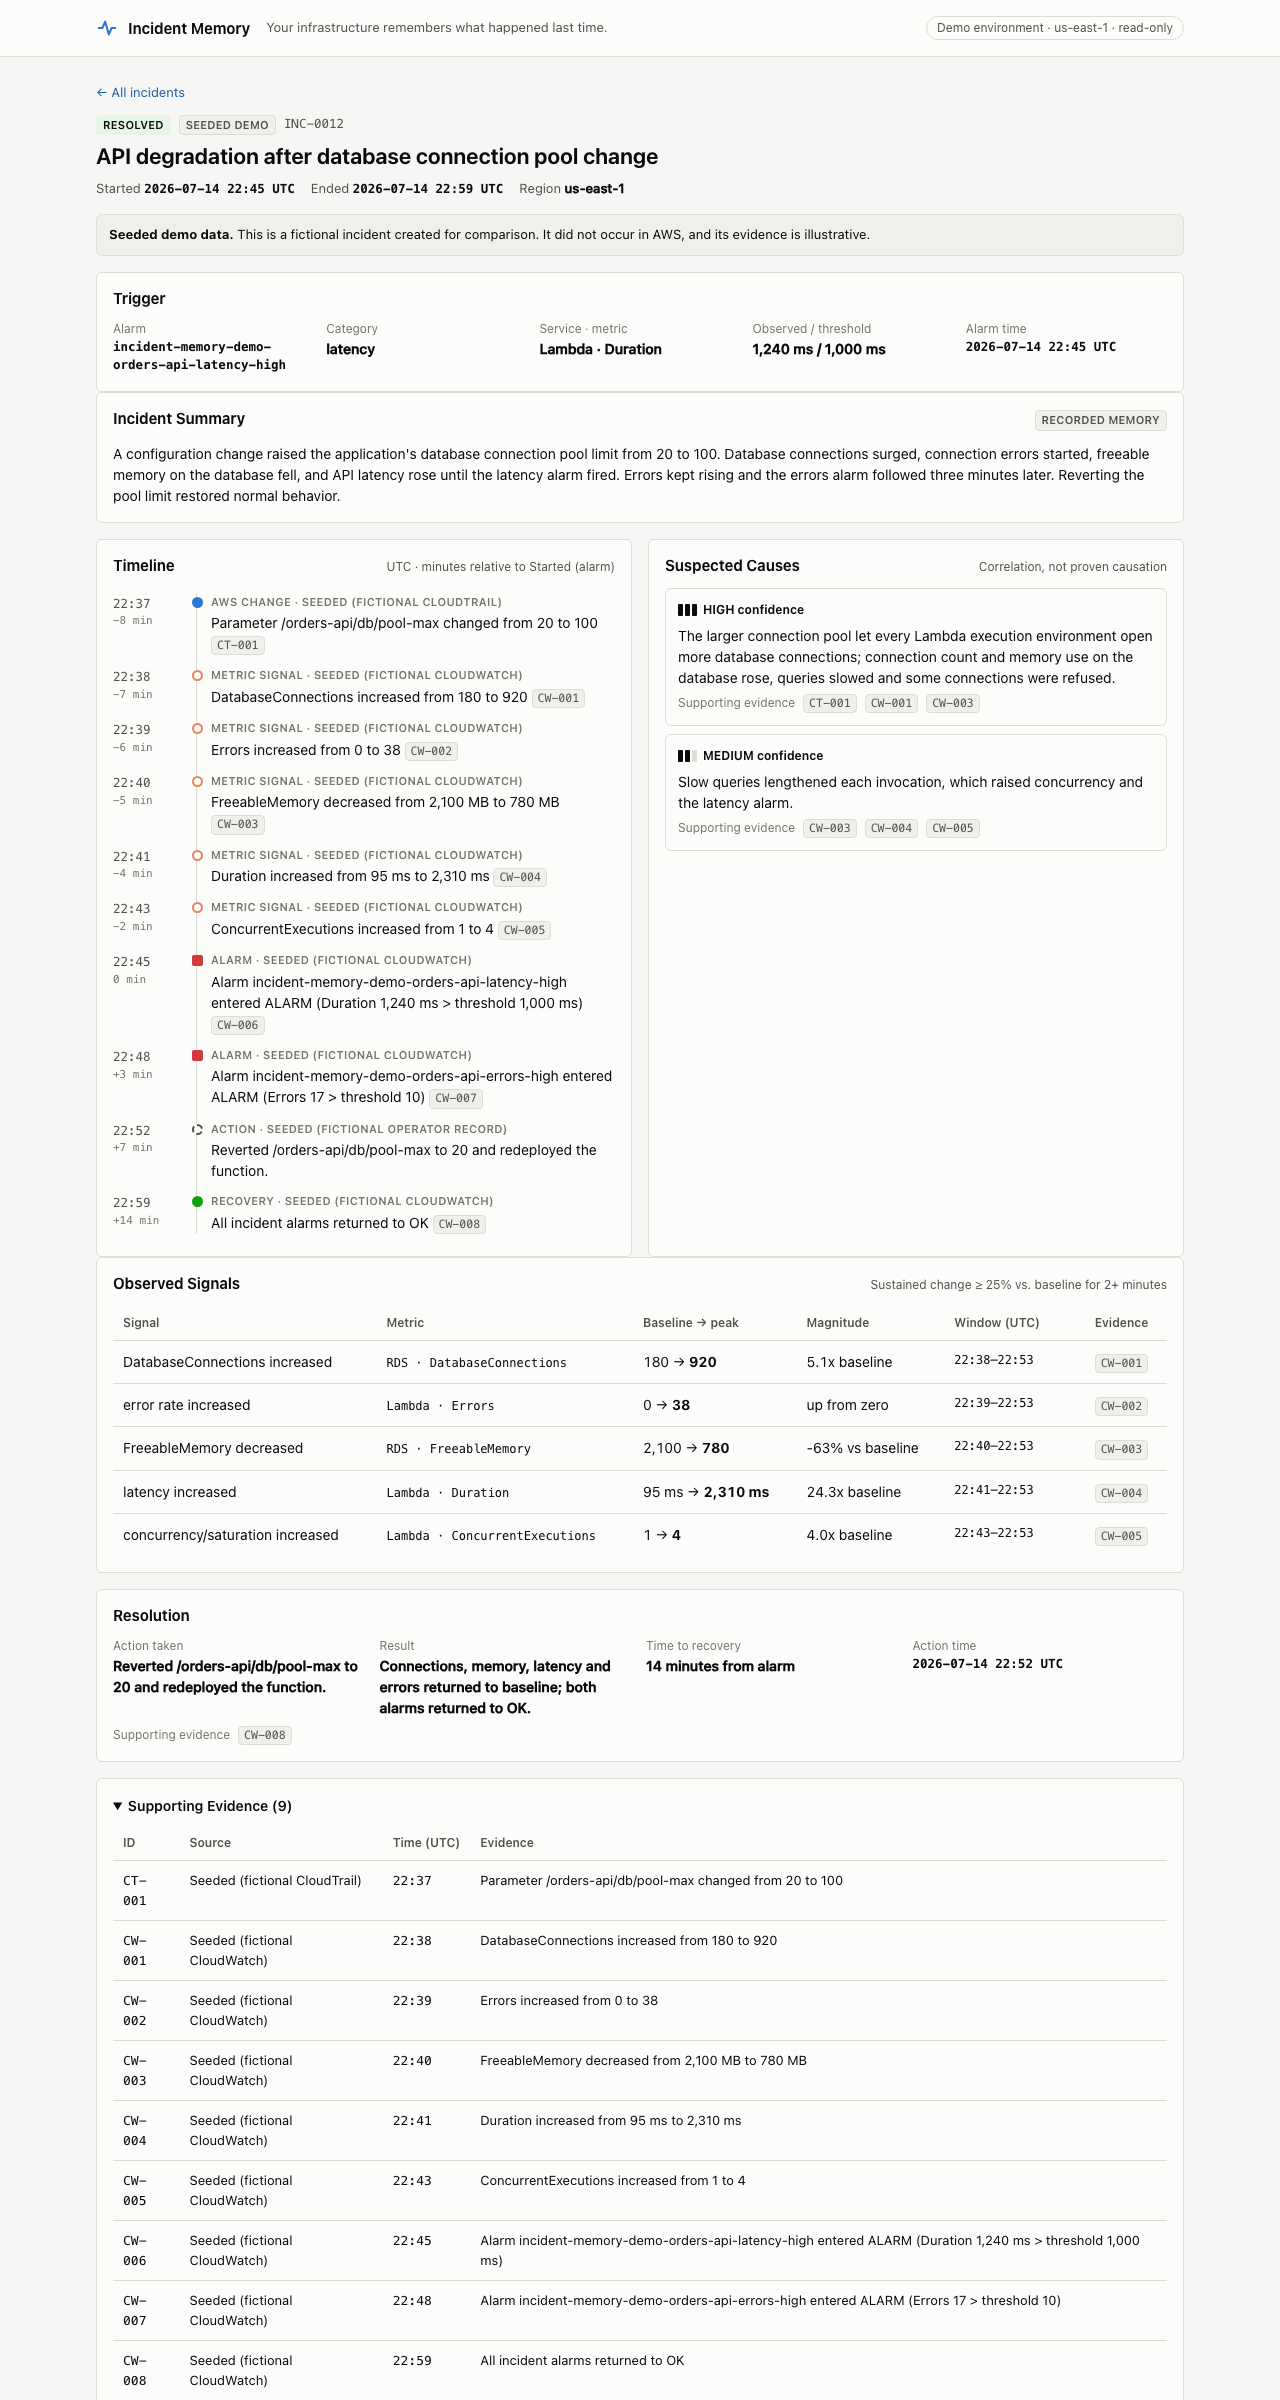
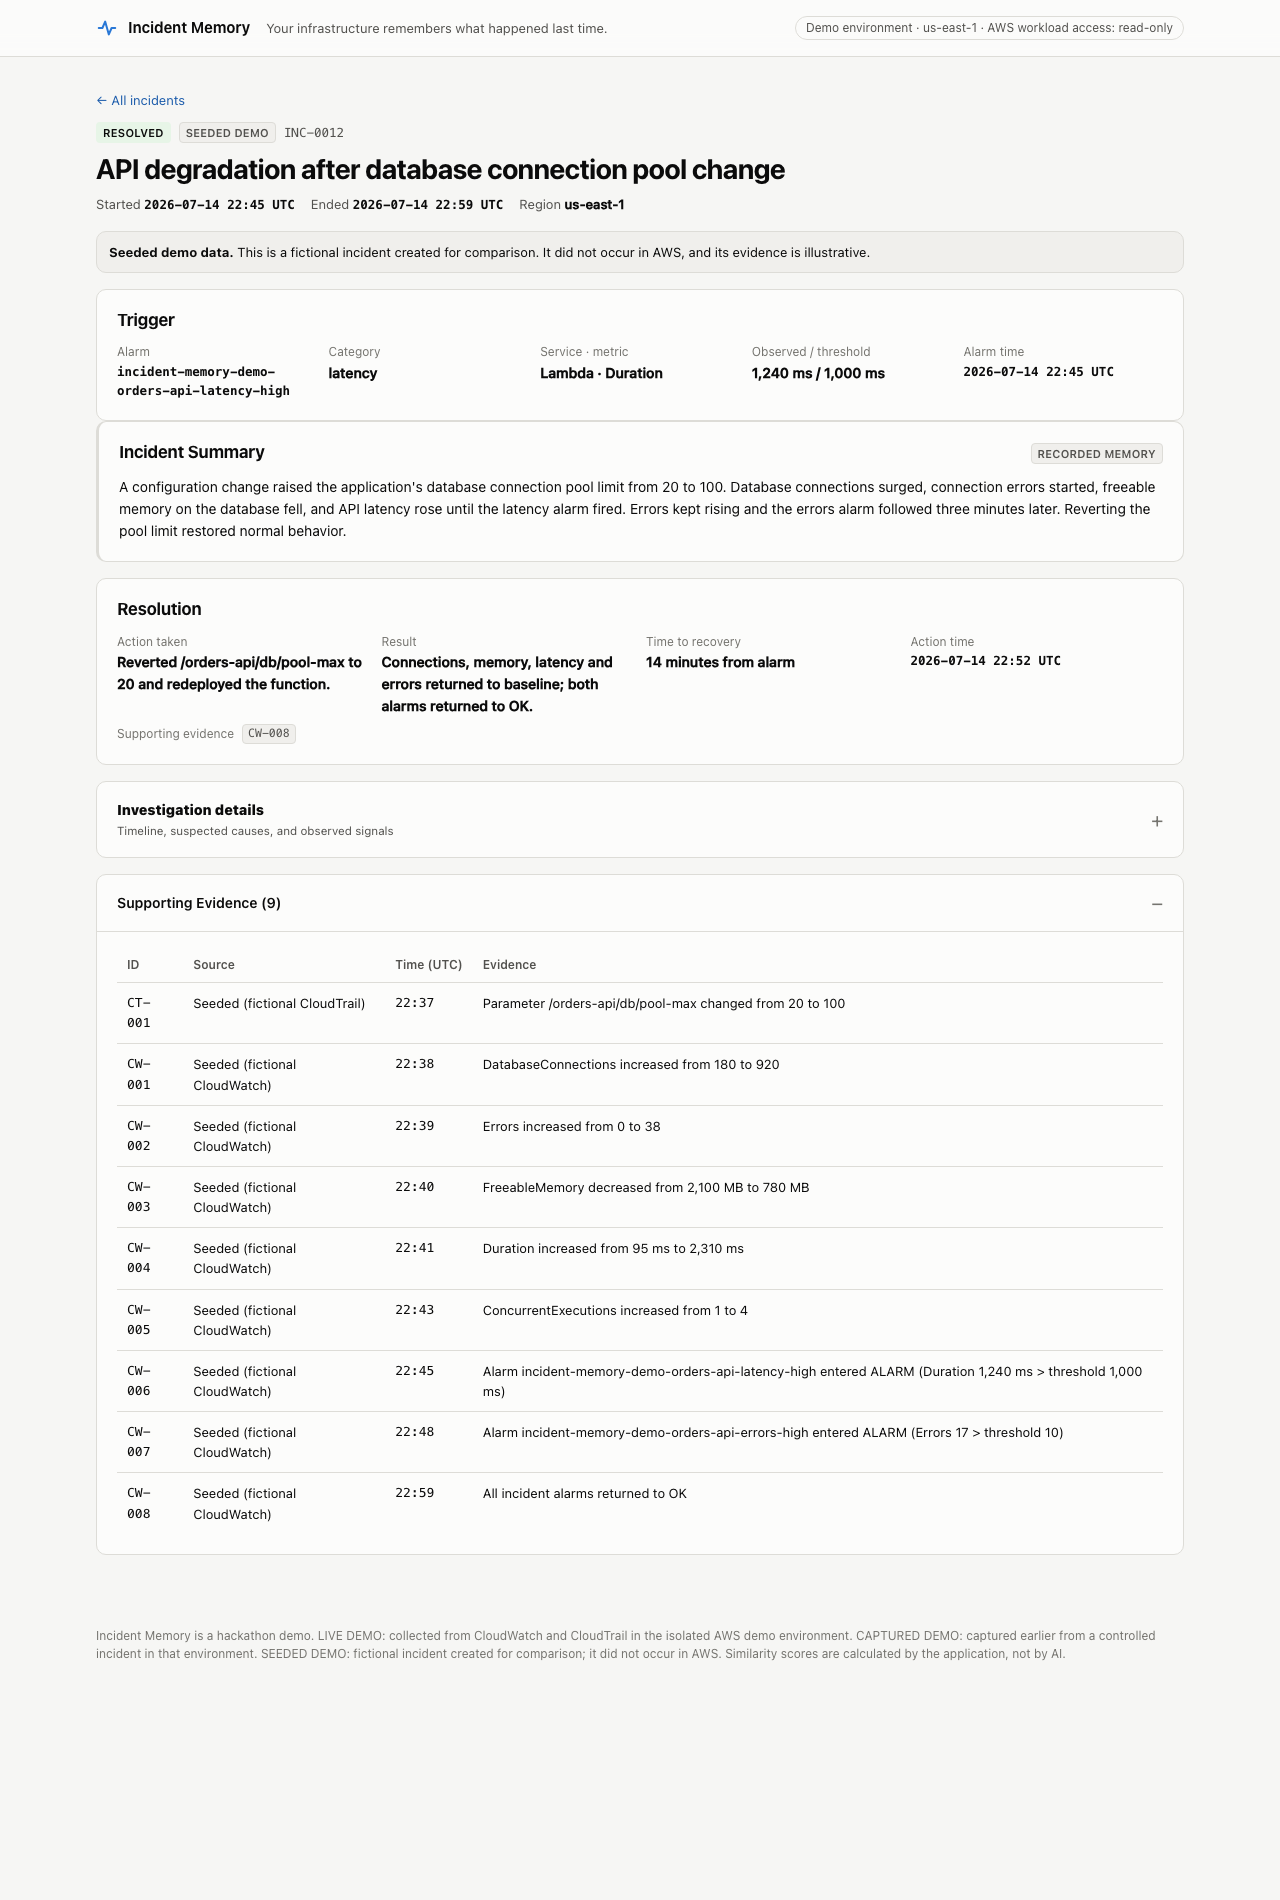
Add public evidence page and refresh screenshots
The Builder Center post is text only, so the evidence images are served
from the app at /evidence.html. S3 objects now include every file under
frontend/. Screenshots retaken after the UI simplification.

diff --git a/frontend/evidence.html b/frontend/evidence.html
@@ -1,0 +1,73 @@
+<!doctype html>
+<html lang="en">
+<head>
+  <meta charset="utf-8">
+  <meta name="viewport" content="width=device-width, initial-scale=1">
+  <title>Incident Memory · Evidence</title>
+  <meta name="description" content="Evidence for the Incident Memory hackathon submission: coding agent connected to AWS through the AWS MCP Server, screenshots of the live app, and the architecture.">
+  <link rel="stylesheet" href="styles.css">
+  <style>
+    figure { margin: 12px 0 20px; }
+    figure img { max-width: 100%; border: 1px solid var(--border); border-radius: var(--radius); display: block; }
+    figcaption { font-size: 13px; color: var(--text-2); margin-top: 6px; }
+    code { background: var(--surface-2); padding: 0 4px; border-radius: 3px; }
+  </style>
+</head>
+<body>
+  <header class="topbar">
+    <div class="topbar-inner">
+      <a class="brand" href="./">Incident Memory</a>
+      <span class="tagline">Evidence for the AWS Zero to Shipped submission</span>
+    </div>
+  </header>
+  <main>
+    <section class="intro">
+      <h1>Evidence</h1>
+      <p>Live app: <a href="https://d2zs12dmk7373h.cloudfront.net">https://d2zs12dmk7373h.cloudfront.net</a> ·
+      Category: Commercial potential · Track: Startups. All screenshots are sanitized: no account IDs, ARNs or
+      production resource names.</p>
+    </section>
+
+    <section class="panel">
+      <h2>1. Coding agent connected to AWS</h2>
+      <p>Built with <b>Claude Code</b>, connected to AWS through the <b>Agent Toolkit for AWS</b> (AWS MCP Server),
+      using a dedicated IAM user limited to the project's <code>incident-memory-*</code> resources in us-east-1.</p>
+      <figure><img src="evidence/mcp-connected.png" alt="Claude Code /mcp panel showing aws-mcp connected with 8 tools">
+        <figcaption>Claude Code <code>/mcp</code> panel: <b>aws-mcp ✔ 8 tools</b> (user MCP server).</figcaption></figure>
+      <figure><img src="evidence/agent-calling-aws-mcp.png" alt="The agent calling aws-mcp aws___run_script with read-only AWS API calls">
+        <figcaption>The agent calling <code>aws-mcp - aws___run_script</code> with read-only calls (GetCallerIdentity,
+        ListFunctions, DescribeTable, DescribeAlarms, GetApis). Result: caller <code>user/sandbox</code>; Lambda functions
+        <code>incident-memory-api</code>, <code>incident-memory-demo-orders-api</code>, <code>incident-memory-demo-scenario</code>;
+        table <code>incident-memory-incidents</code> ACTIVE; 3 demo alarms OK; HTTP API <code>incident-memory-api</code>.</figcaption></figure>
+      <p><b>AWS-side record:</b> CloudTrail logged the agent's MCP calls with <code>eventSource: aws-mcp.amazonaws.com</code>
+      (<code>CallReadWriteTool</code>, <code>DestroySession</code>) and user agent <code>mcp-proxy-for-aws/1.7.0</code>.</p>
+      <p><b>How it was used:</b> the agent designed and built the backend, UI, tests and Terraform (about 40 resources),
+      ran every <code>terraform plan</code> through a safety gate that blocks changes outside the project, ran controlled
+      incidents in AWS, and verified the live URL. The builder wrote the specification, reviewed the demo and approved
+      infrastructure changes.</p>
+    </section>
+
+    <section class="panel">
+      <h2>2. The live app</h2>
+      <figure><img src="evidence/dashboard.png" alt="Dashboard">
+        <figcaption>Dashboard: a demo incident with its closest historical match (82 %, different cause, similar failure
+        pattern) and 27 captured real-world recurrences of one production alarm (exact recurrence).</figcaption></figure>
+      <figure><img src="evidence/pattern-similarity.png" alt="Incident analysis with 82 percent pattern similarity">
+        <figcaption>Pattern similarity: a real Lambda configuration change (CloudTrail) followed by errors, latency and a
+        latency alarm (CloudWatch) matches a seeded historical scenario at 82 %. Why it matches, what is different, and
+        what happened last time.</figcaption></figure>
+      <figure><img src="evidence/exact-recurrence.png" alt="Exact recurrence in captured real-world data">
+        <figcaption>Exact recurrence: a sanitized production database free-memory alarm cycle matches the previous
+        occurrence (recurrence score 100 %: same alarm type, metric, threshold behavior and recovery). Cause: insufficient
+        evidence. No resolution recorded.</figcaption></figure>
+    </section>
+
+    <section class="panel">
+      <h2>3. Architecture</h2>
+      <figure><img src="evidence/architecture.png" alt="Architecture diagram">
+        <figcaption>CloudFront + S3, API Gateway, Lambda, DynamoDB, CloudWatch, CloudTrail and Amazon Bedrock in us-east-1.
+        Similarity is calculated by the application; Bedrock only explains. AWS workload access is read-only.</figcaption></figure>
+    </section>
+  </main>
+</body>
+</html>

diff --git a/docs/evidence/DEVELOPMENT_LOG.md b/docs/evidence/DEVELOPMENT_LOG.md
@@ -53,6 +53,7 @@ rows from 2026-09-25 06:20 and 16:20.
 | 2026-09-26 05:10 | **Final judging pass (22-point checklist from the builder).** Most points were already covered. Remaining changes: an incident whose evidence is final (recovered, window complete) is labeled **CAPTURED DEMO** as defined, and "Recent analyzed incidents" lists incidents without a recorded resolution; the prerendered HTML uses the headings "Recent analyzed incident", "Closest historical match" and "Evidence: CloudWatch + CloudTrail"; the final message ("A new AWS incident occurs. Incident Memory reconstructs what happened, recognizes a similar historical failure pattern, and shows what worked last time.") is in the UI and docs; tests for source labels and for the JavaScript-free HTML (31 tests). Plan: 0 create, 3 update, 0 delete, no new fixed cost, no change outside the project. Applied as the project user; the featured incident was re-compared from stored evidence (82 %, now CAPTURED DEMO) and the landing HTML regenerated (2 updates). Verified with and without JavaScript. |
 | 2026-09-26 09:48 | **Captured real-world data.** The builder exported one production database free-memory alarm's history and datapoints (no access from the app or the agent's AWS role to that system). Imported 27 ALARM → OK cycles (2026-09-21 to 2026-09-26) as sanitized `CAPTURED_REAL_WORLD` memories, one per cycle, with facts only: cause "Insufficient evidence", resolution "No resolution recorded", change history not captured, so that factor is excluded. Each cycle matches the previous cycle at 100 %, and the UI lists the differences (lowest value, recovery time). Matching now uses earlier incidents with a known outcome (resolved or recovered); ties go to the most recent. Bug found and fixed during verification: re-analysis relabeled a real-world cycle as CAPTURED DEMO (regression test added; label restored). 38 tests. Two applies after approval. |
 | 2026-09-26 12:20 | **Display rule after review:** 27 rows of "100 %" made the algorithm look careless. Without changing the score or the data, a defined *exact recurrence* rule (100 % plus same alarm type, metric, threshold, signal sequence and automatic recovery) now drives the label: the dashboard shows `EXACT RECURRENCE · previous occurrence` with the real time gap (for example "1h 27m earlier"), outcome "Recovered automatically / No resolution recorded / Cause: Insufficient evidence", and the headline "The same production alarm recurred 27 times in 5 days." The detail page shows "Recurrence score: 100%" and four reasons. The demo stays "82 % · different cause, similar failure pattern". 43 tests, including "100 % alone is not exact recurrence" and "AI cannot invent a cause for real-world data". Two applies after approval. |
+| 2026-09-27 02:40 | **Public evidence page.** The Builder Center post is text only, so image links in it cannot be viewed. Added `/evidence.html` to the app (agent connected to AWS through the AWS MCP Server, read-only `aws___run_script` call, CloudTrail record, dashboard, pattern similarity, exact recurrence, architecture; sanitized). S3 objects now cover every file under `frontend/`. Screenshots retaken after the builder simplified the UI. Plans: 7 create + 4 update, then 4 update; 0 delete, no change outside the project. Applied as the project user after approval; verified the page and images return 200. |
 
 ## CloudTrail trace
 

diff --git a/docs/BUILDER_CENTER_BODY.md b/docs/BUILDER_CENTER_BODY.md
@@ -1,4 +1,5 @@
 **Live app (no login):** https://d2zs12dmk7373h.cloudfront.net
+**Evidence:** https://d2zs12dmk7373h.cloudfront.net/evidence.html
 **Category:** Commercial potential · **Track:** Startup
 
 > Incident Memory turns an AWS alarm into an answer: what changed, which past failure matches, and what worked last time.
@@ -19,15 +20,11 @@ Real data too: a sanitized production DB alarm recurred 27 times in 6 days. With
 
 Monitoring shows what is happening now. Incident Memory remembers what worked last time: long-term memory, beyond the 7–90 days CloudWatch investigations keeps.
 
-[image: incident analysis]
-
 ### How it works
 - CloudFront, S3, API Gateway, Lambda, DynamoDB, CloudWatch, CloudTrail, Bedrock (Nova 2 Lite)
 - Similarity is deterministic (5 documented factors). AI never sets the score.
 - Bedrock explains; every cause must cite evidence IDs, else "Insufficient evidence".
 - Read-only AWS workload access, least-privilege IAM, isolated demo environment.
-
-[image: architecture]
 
 ### How the coding agent helped
 Claude Code connected to AWS through the Agent Toolkit for AWS, using a dedicated IAM user.
@@ -35,13 +32,11 @@ Claude Code connected to AWS through the Agent Toolkit for AWS, using a dedicate
 - I rejected a 96% match as "looks staged"; the agent reworked the demo into a different-cause story (82%).
 - It ran real incidents in AWS, verified the live URL and fixed its own bugs; I approved infra changes.
 
-Proof: /mcp panel, an agent AWS MCP call and its CloudTrail events.
-
-[image: /mcp panel] [image: agent calling AWS MCP]
+Proof (evidence link): the /mcp panel shows aws-mcp connected; the agent called aws___run_script read-only; CloudTrail logged the calls from aws-mcp.amazonaws.com.
 
 ### Why a business
 Built by Satoshi Kimura, founder of ENOXA. Running Gatepath on AWS, I kept re-investigating the same alarms. Next: read-only cross-account onboarding, automatic memories and team insights. Incident Memory is standalone and reads no Gatepath data.
 
 Labels: LIVE/CAPTURED DEMO = real AWS evidence from an isolated demo; CAPTURED REAL-WORLD = sanitized production data; SEEDED = fictional.
 
-#commercial-potential #startup
+#commercial-potential #startups
